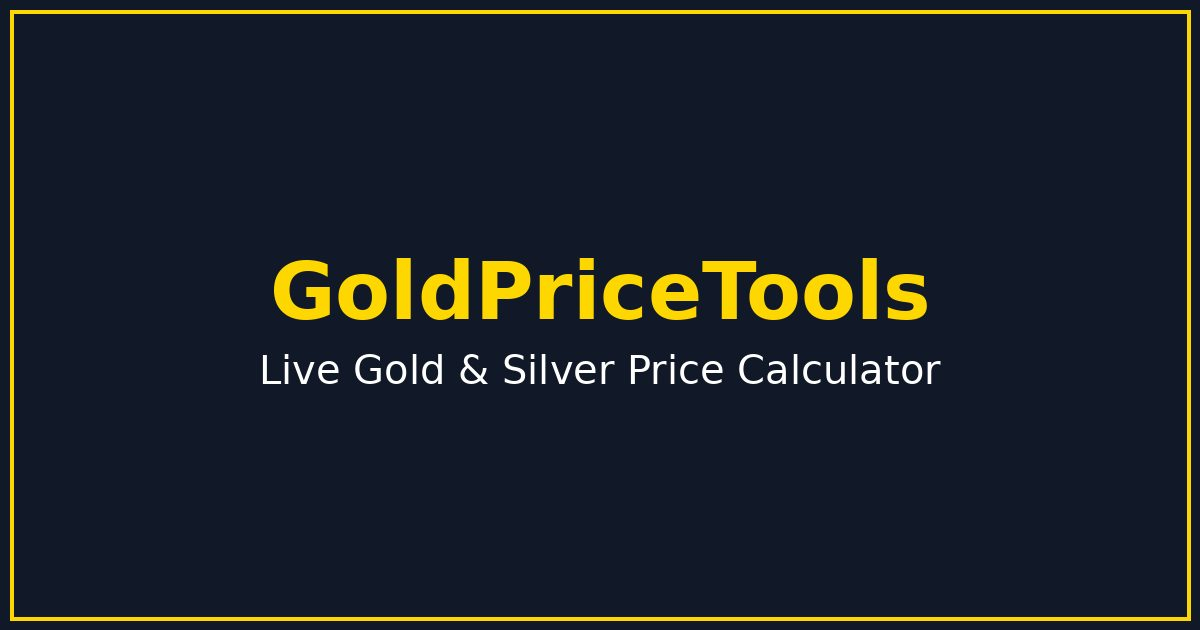
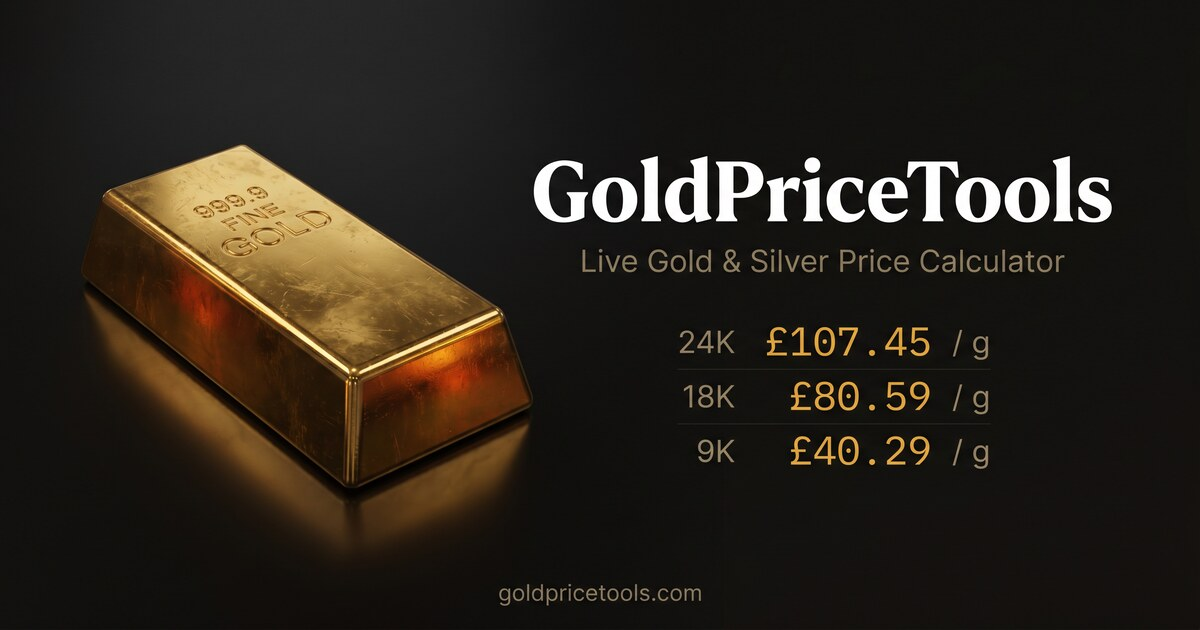
fix: guides hub page (404), OG image, redirects (#238)
Closes #191, #4

diff --git a/guides/index.html b/guides/index.html
@@ -1,0 +1,304 @@
+<!DOCTYPE html>
+<html lang="en" dir="ltr" data-theme="dark">
+<head>
+<meta charset="UTF-8">
+<meta name="viewport" content="width=device-width, initial-scale=1.0">
+<title>Gold &amp; Silver Guides | GoldPriceTools</title>
+<meta name="description" content="Free guides covering gold and silver prices, karats, hallmarks, investing, and selling. Practical, UK-focused education from GoldPriceTools.">
+<meta name="robots" content="index, follow">
+<link rel="canonical" href="https://goldpricetools.com/guides/">
+<link rel="alternate" hreflang="en-gb" href="https://goldpricetools.com/guides/">
+<link rel="alternate" hreflang="en-us" href="https://goldpricetools.com/guides/">
+<link rel="alternate" hreflang="x-default" href="https://goldpricetools.com/guides/">
+<link rel="manifest" href="/manifest.json">
+<link rel="icon" type="image/svg+xml" href="https://assets.goldpricetools.com/logo.svg">
+<meta name="theme-color" content="#0f0e0c">
+<meta property="og:title" content="Gold &amp; Silver Guides | GoldPriceTools">
+<meta property="og:description" content="Free guides covering gold and silver prices, karats, hallmarks, investing, and selling. Practical, UK-focused education from GoldPriceTools.">
+<meta property="og:type" content="website">
+<meta property="og:url" content="https://goldpricetools.com/guides/">
+<meta property="og:site_name" content="GoldPriceTools">
+<meta property="og:image" content="https://assets.goldpricetools.com/og-image.jpg">
+<meta name="twitter:card" content="summary_large_image">
+<meta name="twitter:image" content="https://assets.goldpricetools.com/og-image.jpg">
+<script type="application/ld+json">{"@context":"https://schema.org","@type":"CollectionPage","name":"Gold & Silver Guides","description":"Free educational guides covering gold and silver prices, karats, hallmarks, investing, selling, and valuation for UK readers.","url":"https://goldpricetools.com/guides/","inLanguage":"en-GB"}</script>
+<script type="application/ld+json">{"@context":"https://schema.org","@type":"BreadcrumbList","itemListElement":[{"@type":"ListItem","position":1,"name":"Home","item":"https://goldpricetools.com/"},{"@type":"ListItem","position":2,"name":"Guides","item":"https://goldpricetools.com/guides/"}]}</script>
+<script type="application/ld+json">{"@context":"https://schema.org","@type":"ItemList","name":"Gold & Silver Guides","url":"https://goldpricetools.com/guides/","numberOfItems":25,"itemListElement":[{"@type":"ListItem","position":1,"name":"What Affects the Gold Price?","url":"https://goldpricetools.com/guides/what-affects-gold-price"},{"@type":"ListItem","position":2,"name":"How to Read the Gold Spot Price","url":"https://goldpricetools.com/guides/how-to-read-gold-spot-price"},{"@type":"ListItem","position":3,"name":"Gold Price History: All-Time Highs & Milestones","url":"https://goldpricetools.com/guides/gold-price-history"},{"@type":"ListItem","position":4,"name":"Gold Price Prediction 2026: Forecast & Outlook","url":"https://goldpricetools.com/guides/gold-price-prediction-2026"},{"@type":"ListItem","position":5,"name":"Gold Hallmarks Explained: Stamps, Assays & Purity","url":"https://goldpricetools.com/guides/gold-hallmarks-explained"},{"@type":"ListItem","position":6,"name":"Gold Karat Explained: 9K, 14K, 18K, 22K, 24K","url":"https://goldpricetools.com/guides/gold-karat-explained"},{"@type":"ListItem","position":7,"name":"Gold Purity Guide: Karats, Hallmarks & Melt Value","url":"https://goldpricetools.com/guides/gold-purity-guide"},{"@type":"ListItem","position":8,"name":"What Is 14K Gold? Purity, Alloy & Value Explained","url":"https://goldpricetools.com/guides/what-is-14k-gold"},{"@type":"ListItem","position":9,"name":"How to Test If Gold Is Real At Home","url":"https://goldpricetools.com/guides/how-to-test-if-gold-is-real"},{"@type":"ListItem","position":10,"name":"Gold Filled vs Gold Plated vs Solid Gold","url":"https://goldpricetools.com/guides/difference-between-gold-filled-and-gold-plated"},{"@type":"ListItem","position":11,"name":"Gold Bar Guide: Sizes, Weights & Good Delivery","url":"https://goldpricetools.com/guides/gold-bar-guide"},{"@type":"ListItem","position":12,"name":"How to Invest in Gold: Beginner's Guide 2026","url":"https://goldpricetools.com/guides/how-to-invest-in-gold"},{"@type":"ListItem","position":13,"name":"Gold vs Silver Investment: Which Is Better in 2026?","url":"https://goldpricetools.com/guides/gold-vs-silver-investment"},{"@type":"ListItem","position":14,"name":"How to Store Gold & Silver at Home Safely","url":"https://goldpricetools.com/guides/how-to-store-gold-silver-at-home"},{"@type":"ListItem","position":15,"name":"How to Sell Gold Jewellery: Get the Best Price","url":"https://goldpricetools.com/guides/how-to-sell-gold-jewellery"},{"@type":"ListItem","position":16,"name":"How to Calculate Scrap Gold Value","url":"https://goldpricetools.com/guides/how-to-calculate-scrap-gold"},{"@type":"ListItem","position":17,"name":"Scrap Gold Guide: How Is Scrap Gold Valued?","url":"https://goldpricetools.com/guides/scrap-gold-guide"},{"@type":"ListItem","position":18,"name":"How Much Is a Gold Ring Worth?","url":"https://goldpricetools.com/guides/how-much-is-a-gold-ring-worth"},{"@type":"ListItem","position":19,"name":"Troy Ounce vs Gram: What's the Difference?","url":"https://goldpricetools.com/guides/troy-ounce-vs-gram-explained"},{"@type":"ListItem","position":20,"name":"Troy Ounce Guide: Conversions, History & Meaning","url":"https://goldpricetools.com/guides/troy-ounce-guide"},{"@type":"ListItem","position":21,"name":"Silver Price Per Gram Explained","url":"https://goldpricetools.com/guides/silver-price-per-gram-explained"},{"@type":"ListItem","position":22,"name":"What Is 925 Sterling Silver?","url":"https://goldpricetools.com/guides/what-is-925-sterling-silver"},{"@type":"ListItem","position":23,"name":"Silver Price Guide: Spot Price & 925 Sterling Value","url":"https://goldpricetools.com/guides/silver-price-guide"},{"@type":"ListItem","position":24,"name":"US Silver Dollar Values: Coin Prices & Melt Values","url":"https://goldpricetools.com/guides/us-silver-dollar-values"},{"@type":"ListItem","position":25,"name":"Indian Gold & Silver Prices: Live Rates in INR","url":"https://goldpricetools.com/guides/indian-gold-silver-prices"}]}</script>
+<script>window.dataLayer=window.dataLayer||[];function gtag(){dataLayer.push(arguments);}gtag('consent','default',{'ad_storage':'denied','analytics_storage':'denied','ad_user_data':'denied','ad_personalization':'denied','wait_for_update':500});</script>
+<script async src="https://www.googletagmanager.com/gtag/js?id=G-ZPLL52C3K8"></script>
+<script>window.dataLayer=window.dataLayer||[];function gtag(){dataLayer.push(arguments);}gtag('js',new Date());gtag('config','G-ZPLL52C3K8',{'anonymize_ip':true});</script>
+<style>
+@font-face {
+  font-family: 'Instrument Serif';
+  font-style: normal;
+  font-weight: 400;
+  font-display: swap;
+  src: url('https://assets.goldpricetools.com/Fonts/instrument-serif-400.woff2') format('woff2');
+  unicode-range: U+0000-00FF, U+0131, U+0152-0153, U+02BB-02BC, U+02C6, U+02DA, U+02DC, U+0304, U+0308, U+0329, U+2000-206F, U+20AC, U+2122, U+2191, U+2193, U+2212, U+2215, U+FEFF, U+FFFD;
+}
+@font-face {
+  font-family: 'Instrument Serif';
+  font-style: normal;
+  font-weight: 400;
+  font-display: swap;
+  src: url('https://assets.goldpricetools.com/Fonts/instrument-serif-400-ext.woff2') format('woff2');
+  unicode-range: U+0100-02BA, U+02BD-02C5, U+02C7-02CC, U+02CE-02D7, U+02DD-02FF, U+0304, U+0308, U+0329, U+1D00-1DBF, U+1E00-1E9F, U+1EF2-1EFF, U+2020, U+20A0-20AB, U+20AD-20C0, U+2113, U+2C60-2C7F, U+A720-A7FF;
+}
+@font-face {
+  font-family: 'Instrument Serif';
+  font-style: italic;
+  font-weight: 400;
+  font-display: swap;
+  src: url('https://assets.goldpricetools.com/Fonts/instrument-serif-400-ext.woff2') format('woff2');
+}
+</style>
+<style>
+.guides-hero{padding:3rem 1.5rem 2rem;max-width:900px;margin:0 auto;text-align:center}
+.guides-hero h1{font-family:var(--font-display);font-size:clamp(2rem,5vw,3rem);color:var(--color-text);margin-bottom:1rem}
+.guides-hero p{font-size:1rem;color:var(--color-text-muted);max-width:60ch;margin:0 auto;line-height:1.7}
+.guides-grid{display:grid;grid-template-columns:repeat(auto-fill,minmax(290px,1fr));gap:1.25rem;max-width:1100px;margin:2.5rem auto 4rem;padding:0 1.5rem}
+.guide-card{background:var(--color-surface);border:1px solid var(--color-border);border-radius:10px;transition:border-color .2s,transform .15s}
+.guide-card:hover{border-color:var(--color-gold-bright);transform:translateY(-2px)}
+.guide-card-link{display:flex;flex-direction:column;padding:1.25rem 1.25rem 1rem;height:100%;text-decoration:none;color:inherit}
+.guide-tag{display:inline-block;font-size:.7rem;font-weight:700;text-transform:uppercase;letter-spacing:.06em;padding:.25rem .6rem;border-radius:4px;margin-bottom:.75rem;width:fit-content}
+.guide-tag.market-guide{background:rgba(232,175,52,.12);color:#e8af34}
+.guide-tag.gold-guide{background:rgba(232,175,52,.12);color:#e8af34}
+.guide-tag.silver-guide{background:rgba(180,180,200,.1);color:#b8b8cc}
+.guide-tag.investment-guide{background:rgba(100,200,150,.1);color:#64c896}
+.guide-tag.selling-guide{background:rgba(200,120,80,.1);color:#e08855}
+.guide-tag.reference{background:rgba(130,160,220,.1);color:#82a0dc}
+.guide-card-title{font-family:var(--font-display);font-size:1.1rem;color:var(--color-text);line-height:1.35;margin-bottom:.6rem}
+.guide-card-excerpt{font-size:.875rem;color:var(--color-text-muted);line-height:1.6;flex:1;margin-bottom:1rem}
+.guide-card-cta{font-size:.8125rem;color:var(--color-primary);font-weight:600;margin-top:auto}
+</style>
+</head>
+<body>
+<nav>
+  <div class="nav-inner">
+    <a href="/" class="nav-logo"><img src="https://assets.goldpricetools.com/logo.svg" width="24" height="24" alt="GoldPriceTools"> GoldPriceTools</a>
+    <a href="/" class="nav-back">&larr; Home</a>
+  </div>
+</nav>
+<div class="breadcrumb-wrap">
+  <ol class="breadcrumb" aria-label="Breadcrumb">
+    <li><a href="/">Home</a></li>
+    <li aria-current="page">Guides</li>
+  </ol>
+</div>
+<div class="guides-hero">
+  <h1>Gold &amp; Silver Guides</h1>
+  <p>Practical, UK-focused guides on gold and silver prices, karats, hallmarks, investing, and selling. All content is reviewed by the GoldPriceTools editorial team and updated regularly with current market data.</p>
+</div>
+<main>
+  <div class="guides-grid">
+    <article class="guide-card">
+      <a href="/guides/what-affects-gold-price" class="guide-card-link">
+        <span class="guide-tag market-guide">Market Guide</span>
+        <h2 class="guide-card-title">What Affects the Gold Price?</h2>
+        <p class="guide-card-excerpt">Explore the macroeconomic and market forces that drive gold prices — central bank policy, the US dollar, inflation, and geopolitical risk.</p>
+        <span class="guide-card-cta">Read guide &rarr;</span>
+      </a>
+    </article>
+    <article class="guide-card">
+      <a href="/guides/how-to-read-gold-spot-price" class="guide-card-link">
+        <span class="guide-tag market-guide">Market Guide</span>
+        <h2 class="guide-card-title">How to Read the Gold Spot Price</h2>
+        <p class="guide-card-excerpt">Learn how to interpret live gold spot prices, understand COMEX vs LBMA benchmarks, read intraday charts, and convert spot to per-gram values.</p>
+        <span class="guide-card-cta">Read guide &rarr;</span>
+      </a>
+    </article>
+    <article class="guide-card">
+      <a href="/guides/gold-price-history" class="guide-card-link">
+        <span class="guide-tag market-guide">Market Guide</span>
+        <h2 class="guide-card-title">Gold Price History: All-Time Highs & Milestones</h2>
+        <p class="guide-card-excerpt">A timeline of gold's most significant price moves — from the 1971 Nixon shock and 1980 peak to the 2011 supercycle and 2024–26 rally.</p>
+        <span class="guide-card-cta">Read guide &rarr;</span>
+      </a>
+    </article>
+    <article class="guide-card">
+      <a href="/guides/gold-price-prediction-2026" class="guide-card-link">
+        <span class="guide-tag market-guide">Market Guide</span>
+        <h2 class="guide-card-title">Gold Price Prediction 2026: Forecast & Outlook</h2>
+        <p class="guide-card-excerpt">An analysis of analyst forecasts and key drivers for the gold price in 2026, covering central bank buying and real interest rate trends.</p>
+        <span class="guide-card-cta">Read guide &rarr;</span>
+      </a>
+    </article>
+    <article class="guide-card">
+      <a href="/guides/gold-hallmarks-explained" class="guide-card-link">
+        <span class="guide-tag gold-guide">Gold Guide</span>
+        <h2 class="guide-card-title">Gold Hallmarks Explained: Stamps, Assays & Purity</h2>
+        <p class="guide-card-excerpt">A complete guide to UK gold hallmarks — what stamps like 375, 585, 750, and 916 mean, how assay offices work, and how to authenticate jewellery.</p>
+        <span class="guide-card-cta">Read guide &rarr;</span>
+      </a>
+    </article>
+    <article class="guide-card">
+      <a href="/guides/gold-karat-explained" class="guide-card-link">
+        <span class="guide-tag gold-guide">Gold Guide</span>
+        <h2 class="guide-card-title">Gold Karat Explained: 9K, 14K, 18K, 22K, 24K</h2>
+        <p class="guide-card-excerpt">Understand what karats mean, how purity is calculated, why the UK favours 9K, and how to calculate melt value from any karat.</p>
+        <span class="guide-card-cta">Read guide &rarr;</span>
+      </a>
+    </article>
+    <article class="guide-card">
+      <a href="/guides/gold-purity-guide" class="guide-card-link">
+        <span class="guide-tag gold-guide">Gold Guide</span>
+        <h2 class="guide-card-title">Gold Purity Guide: Karats, Hallmarks & Melt Value</h2>
+        <p class="guide-card-excerpt">Everything you need to know about gold purity — from the 375 hallmark to 999 fine gold — with conversion tables and worked examples.</p>
+        <span class="guide-card-cta">Read guide &rarr;</span>
+      </a>
+    </article>
+    <article class="guide-card">
+      <a href="/guides/what-is-14k-gold" class="guide-card-link">
+        <span class="guide-tag gold-guide">Gold Guide</span>
+        <h2 class="guide-card-title">What Is 14K Gold? Purity, Alloy & Value Explained</h2>
+        <p class="guide-card-excerpt">A deep dive into 14K gold: its 58.33% purity, alloy composition by colour, the 585 hallmark, and how to calculate its current value.</p>
+        <span class="guide-card-cta">Read guide &rarr;</span>
+      </a>
+    </article>
+    <article class="guide-card">
+      <a href="/guides/how-to-test-if-gold-is-real" class="guide-card-link">
+        <span class="guide-tag gold-guide">Gold Guide</span>
+        <h2 class="guide-card-title">How to Test If Gold Is Real At Home</h2>
+        <p class="guide-card-excerpt">Seven proven methods to test gold authenticity at home — magnet test, acid test, ceramic scratch test, and electronic gold testers.</p>
+        <span class="guide-card-cta">Read guide &rarr;</span>
+      </a>
+    </article>
+    <article class="guide-card">
+      <a href="/guides/difference-between-gold-filled-and-gold-plated" class="guide-card-link">
+        <span class="guide-tag gold-guide">Gold Guide</span>
+        <h2 class="guide-card-title">Gold Filled vs Gold Plated vs Solid Gold</h2>
+        <p class="guide-card-excerpt">What marks like GP, GF, and 585 mean, the real gold content of each type, and which items have genuine resale value.</p>
+        <span class="guide-card-cta">Read guide &rarr;</span>
+      </a>
+    </article>
+    <article class="guide-card">
+      <a href="/guides/gold-bar-guide" class="guide-card-link">
+        <span class="guide-tag investment-guide">Investment Guide</span>
+        <h2 class="guide-card-title">Gold Bar Guide: Sizes, Weights & Good Delivery</h2>
+        <p class="guide-card-excerpt">A buyer's guide to gold bars — from 1g to 400 troy oz, LBMA Good Delivery specs, UK retail premiums, and how to verify authenticity.</p>
+        <span class="guide-card-cta">Read guide &rarr;</span>
+      </a>
+    </article>
+    <article class="guide-card">
+      <a href="/guides/how-to-invest-in-gold" class="guide-card-link">
+        <span class="guide-tag investment-guide">Investment Guide</span>
+        <h2 class="guide-card-title">How to Invest in Gold: Beginner's Guide 2026</h2>
+        <p class="guide-card-excerpt">Compare physical gold, ETFs, mining stocks, and Royal Mint products. Covers UK VAT and CGT treatment, ISA-eligible ETFs, and storage.</p>
+        <span class="guide-card-cta">Read guide &rarr;</span>
+      </a>
+    </article>
+    <article class="guide-card">
+      <a href="/guides/gold-vs-silver-investment" class="guide-card-link">
+        <span class="guide-tag investment-guide">Investment Guide</span>
+        <h2 class="guide-card-title">Gold vs Silver Investment: Which Is Better in 2026?</h2>
+        <p class="guide-card-excerpt">A data-driven comparison using the gold/silver ratio, volatility profiles, UK VAT differences, and portfolio allocation strategies.</p>
+        <span class="guide-card-cta">Read guide &rarr;</span>
+      </a>
+    </article>
+    <article class="guide-card">
+      <a href="/guides/how-to-store-gold-silver-at-home" class="guide-card-link">
+        <span class="guide-tag investment-guide">Investment Guide</span>
+        <h2 class="guide-card-title">How to Store Gold & Silver at Home Safely</h2>
+        <p class="guide-card-excerpt">Home safes, insurance considerations, anti-tarnish storage for silver, and when to use professional vault storage.</p>
+        <span class="guide-card-cta">Read guide &rarr;</span>
+      </a>
+    </article>
+    <article class="guide-card">
+      <a href="/guides/how-to-sell-gold-jewellery" class="guide-card-link">
+        <span class="guide-tag selling-guide">Selling Guide</span>
+        <h2 class="guide-card-title">How to Sell Gold Jewellery: Get the Best Price</h2>
+        <p class="guide-card-excerpt">Step-by-step: weigh and identify your gold, calculate melt value, compare dealer routes, and avoid common seller pitfalls.</p>
+        <span class="guide-card-cta">Read guide &rarr;</span>
+      </a>
+    </article>
+    <article class="guide-card">
+      <a href="/guides/how-to-calculate-scrap-gold" class="guide-card-link">
+        <span class="guide-tag selling-guide">Selling Guide</span>
+        <h2 class="guide-card-title">How to Calculate Scrap Gold Value</h2>
+        <p class="guide-card-excerpt">A step-by-step walkthrough of scrap gold valuation — weighing, identifying karats, applying the melt value formula, and dealer rates.</p>
+        <span class="guide-card-cta">Read guide &rarr;</span>
+      </a>
+    </article>
+    <article class="guide-card">
+      <a href="/guides/scrap-gold-guide" class="guide-card-link">
+        <span class="guide-tag selling-guide">Selling Guide</span>
+        <h2 class="guide-card-title">Scrap Gold Guide: How Is Scrap Gold Valued?</h2>
+        <p class="guide-card-excerpt">Understand how refiners and dealers assess scrap gold — testing methods, deductions for solder and stones, and maximising your payout.</p>
+        <span class="guide-card-cta">Read guide &rarr;</span>
+      </a>
+    </article>
+    <article class="guide-card">
+      <a href="/guides/how-much-is-a-gold-ring-worth" class="guide-card-link">
+        <span class="guide-tag selling-guide">Selling Guide</span>
+        <h2 class="guide-card-title">How Much Is a Gold Ring Worth?</h2>
+        <p class="guide-card-excerpt">Identify hallmarks, weigh correctly, calculate melt value, and understand the difference between retail and resale pricing.</p>
+        <span class="guide-card-cta">Read guide &rarr;</span>
+      </a>
+    </article>
+    <article class="guide-card">
+      <a href="/guides/troy-ounce-vs-gram-explained" class="guide-card-link">
+        <span class="guide-tag reference">Reference</span>
+        <h2 class="guide-card-title">Troy Ounce vs Gram: What's the Difference?</h2>
+        <p class="guide-card-excerpt">The complete reference for precious metals weights — the medieval Troyes origin, troy vs avoirdupois comparison, and full unit conversion table.</p>
+        <span class="guide-card-cta">Read guide &rarr;</span>
+      </a>
+    </article>
+    <article class="guide-card">
+      <a href="/guides/troy-ounce-guide" class="guide-card-link">
+        <span class="guide-tag reference">Reference</span>
+        <h2 class="guide-card-title">Troy Ounce Guide: Conversions, History & Meaning</h2>
+        <p class="guide-card-excerpt">Everything about the troy ounce — its historical origin, how it differs from a regular ounce, and why gold is always priced in troy oz.</p>
+        <span class="guide-card-cta">Read guide &rarr;</span>
+      </a>
+    </article>
+    <article class="guide-card">
+      <a href="/guides/silver-price-per-gram-explained" class="guide-card-link">
+        <span class="guide-tag silver-guide">Silver Guide</span>
+        <h2 class="guide-card-title">Silver Price Per Gram Explained</h2>
+        <p class="guide-card-excerpt">Why silver is quoted per troy ounce but sold per gram, UK VAT impact vs gold, the LBMA silver price mechanism, and purity multipliers.</p>
+        <span class="guide-card-cta">Read guide &rarr;</span>
+      </a>
+    </article>
+    <article class="guide-card">
+      <a href="/guides/what-is-925-sterling-silver" class="guide-card-link">
+        <span class="guide-tag silver-guide">Silver Guide</span>
+        <h2 class="guide-card-title">What Is 925 Sterling Silver?</h2>
+        <p class="guide-card-excerpt">The 92.5% purity standard, history of the 925 and STER hallmarks, why copper is used as the alloy, tarnish prevention, and melt value.</p>
+        <span class="guide-card-cta">Read guide &rarr;</span>
+      </a>
+    </article>
+    <article class="guide-card">
+      <a href="/guides/silver-price-guide" class="guide-card-link">
+        <span class="guide-tag silver-guide">Silver Guide</span>
+        <h2 class="guide-card-title">Silver Price Guide: Spot Price & 925 Sterling Value</h2>
+        <p class="guide-card-excerpt">A comprehensive guide to the silver spot price — how it is set, what drives it, and how to calculate the value of sterling silver items.</p>
+        <span class="guide-card-cta">Read guide &rarr;</span>
+      </a>
+    </article>
+    <article class="guide-card">
+      <a href="/guides/us-silver-dollar-values" class="guide-card-link">
+        <span class="guide-tag silver-guide">Silver Guide</span>
+        <h2 class="guide-card-title">US Silver Dollar Values: Coin Prices & Melt Values</h2>
+        <p class="guide-card-excerpt">Current melt values and collector premiums for pre-1965 US silver dollars, quarters, dimes, and half-dollars with live silver calculations.</p>
+        <span class="guide-card-cta">Read guide &rarr;</span>
+      </a>
+    </article>
+    <article class="guide-card">
+      <a href="/guides/indian-gold-silver-prices" class="guide-card-link">
+        <span class="guide-tag market-guide">Market Guide</span>
+        <h2 class="guide-card-title">Indian Gold & Silver Prices: Live Rates in INR</h2>
+        <p class="guide-card-excerpt">Live gold and silver prices in Indian Rupees (INR), with per-gram and per-tola values for 22K, 24K gold and 925 silver.</p>
+        <span class="guide-card-cta">Read guide &rarr;</span>
+      </a>
+    </article>
+  </div>
+</main>
+<div class="disclaimer-box" role="note" aria-label="Financial disclaimer">
+  <p><strong>Disclaimer:</strong> Guides are for informational purposes only and do not constitute financial or investment advice. Always seek independent professional advice before making investment decisions.</p>
+</div>
+<footer>
+  <p>&copy; 2026 GoldPriceTools &mdash; <a href="/">Home</a><a href="/guides/">Guides</a><a href="/blog/">Blog</a><a href="/about">About</a><a href="/privacy-policy">Privacy</a></p>
+  <p style="margin-top:.5rem">Prices are indicative only. Not financial advice.</p>
+</footer>
+</body>
+</html>
